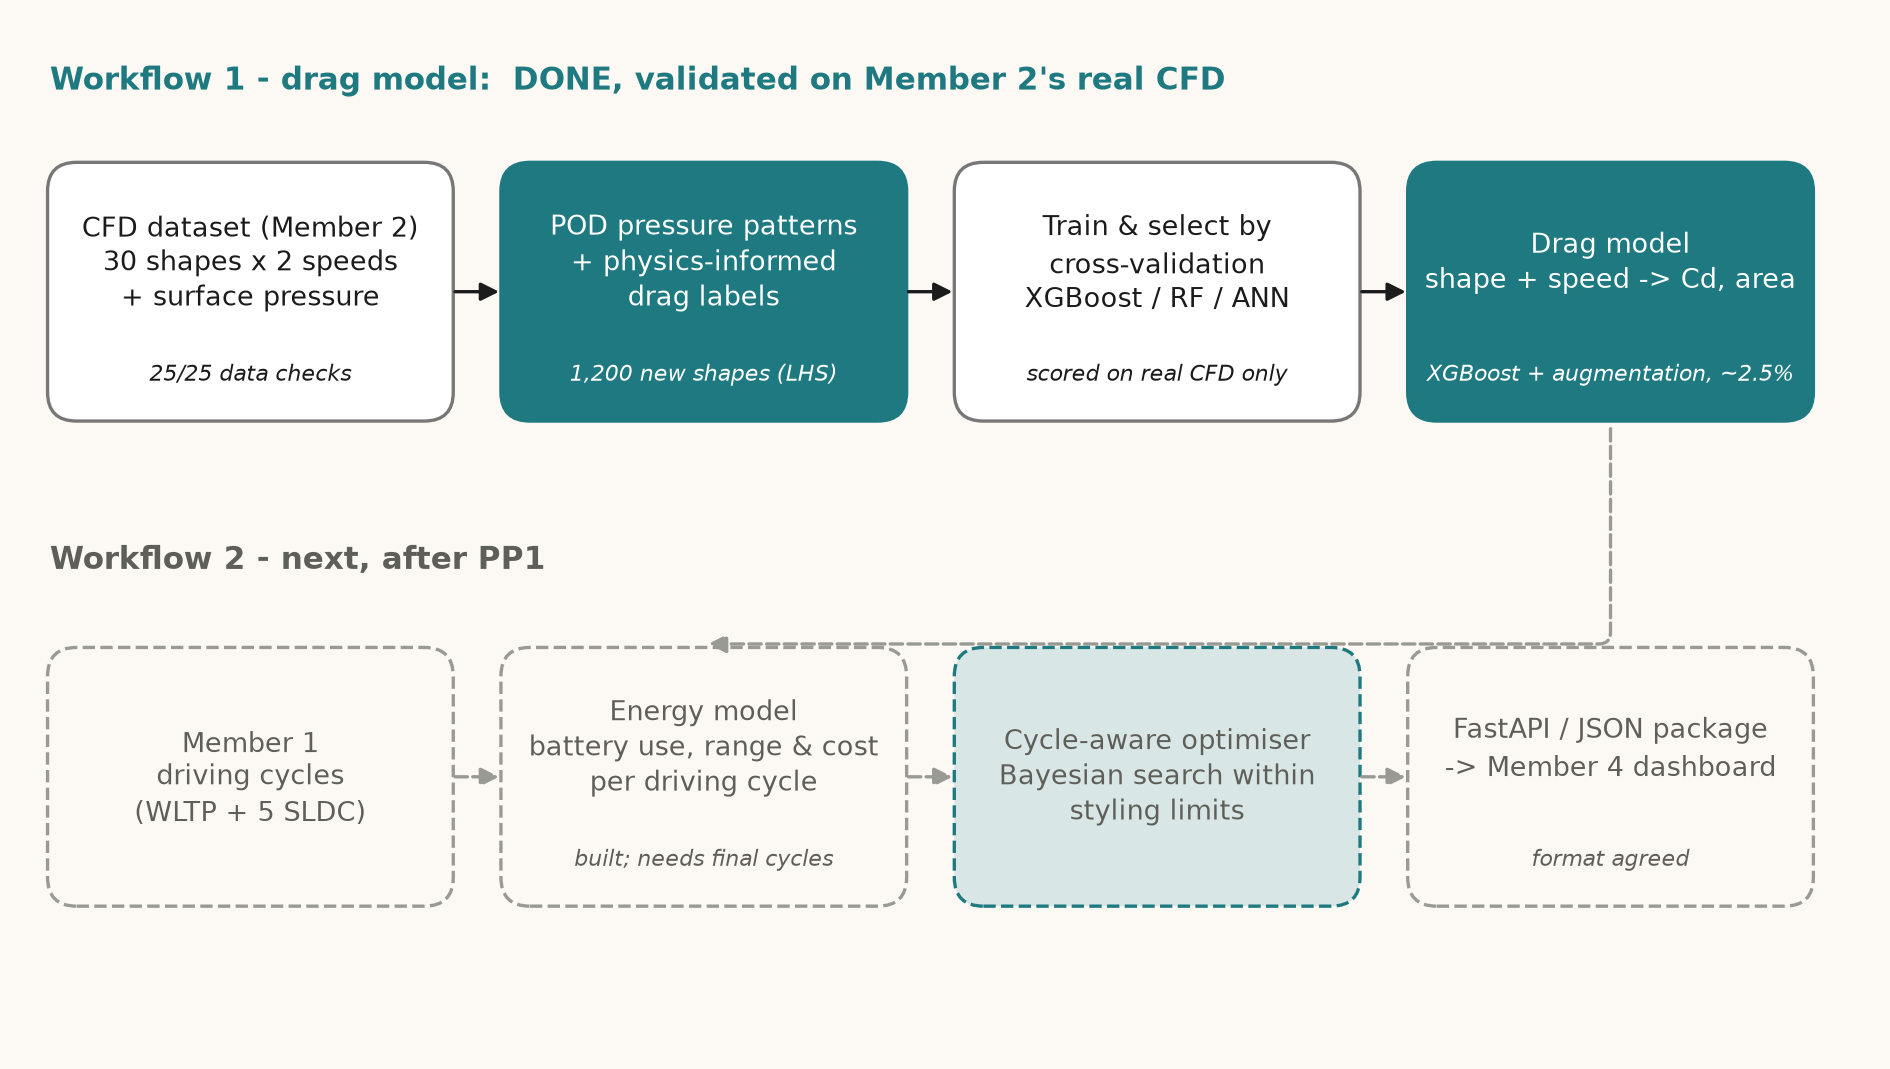
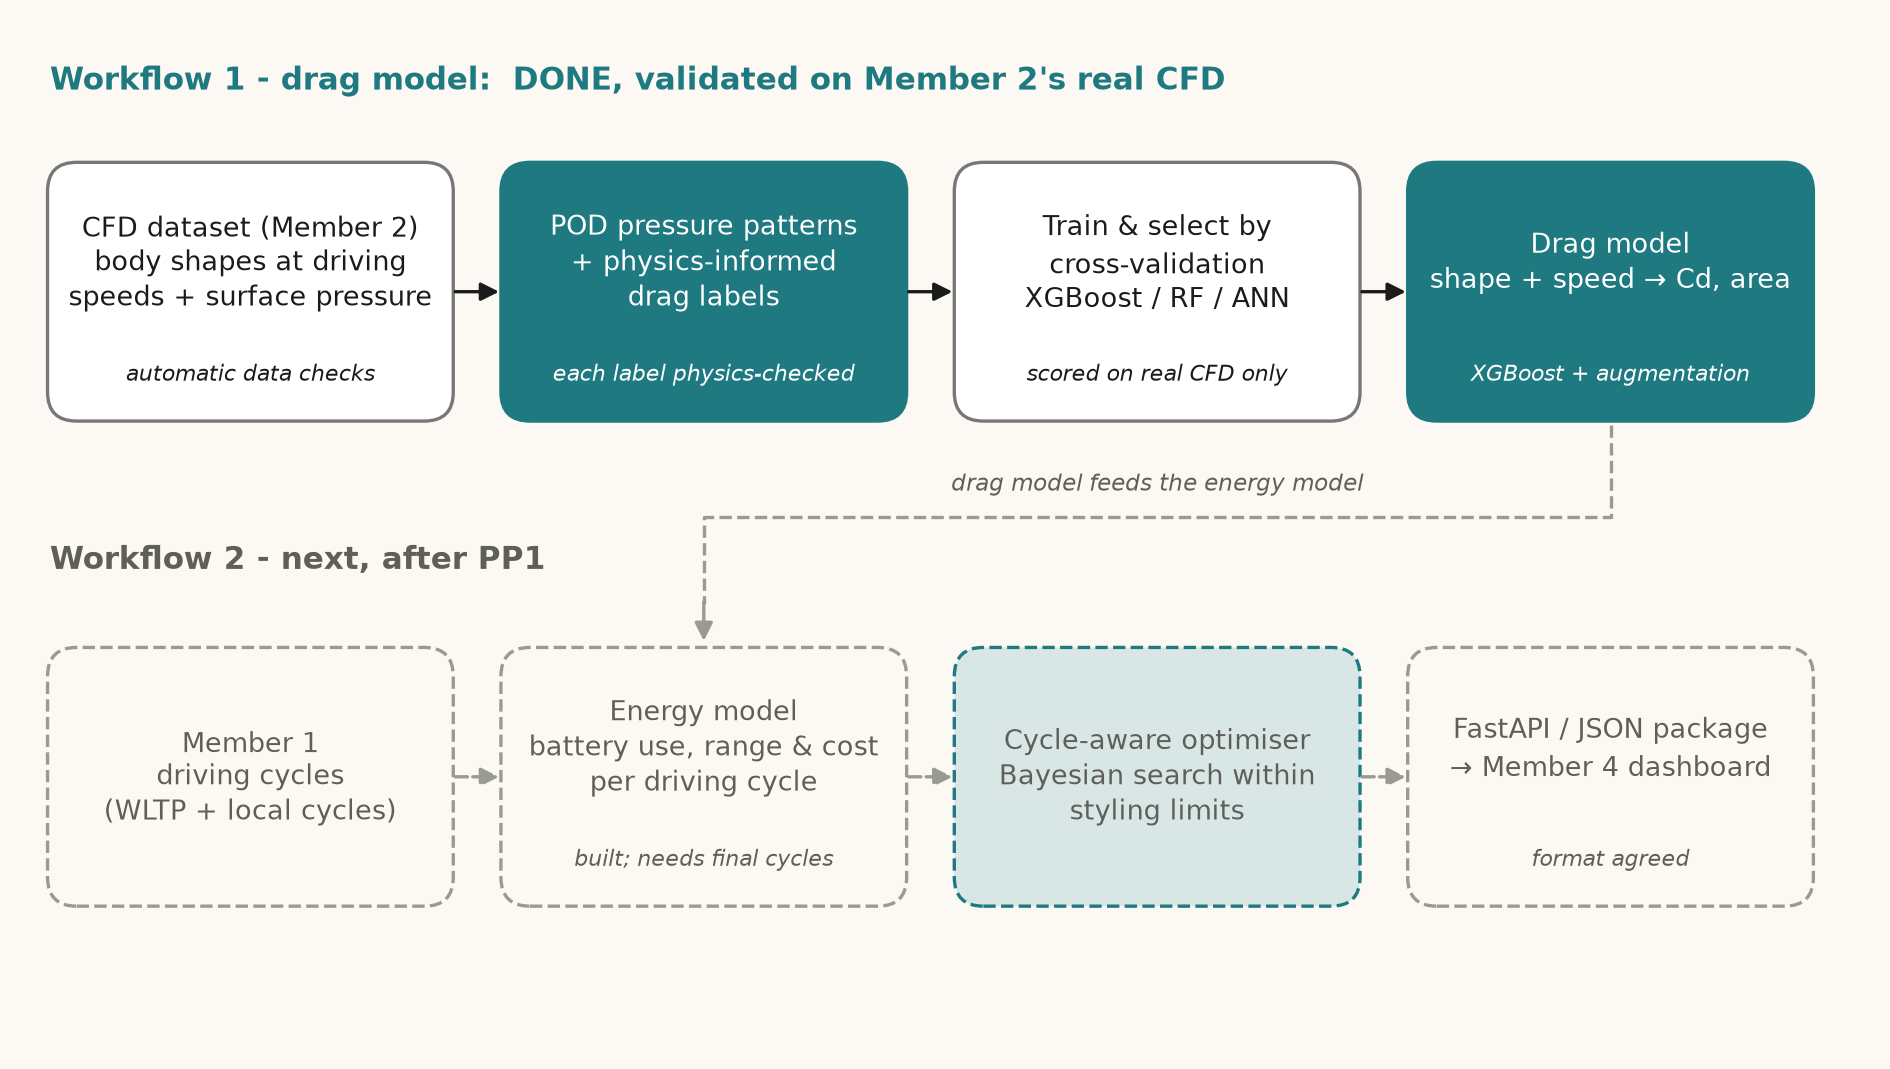
Update PP1 diagrams and enhance drag prediction output with synthetic shape count

diff --git a/component3_ml_backend/scripts/make_pp1_diagrams.py b/component3_ml_backend/scripts/make_pp1_diagrams.py
@@ -48,83 +48,128 @@ def architecture():
 
     ax.text(0.3, 8.35, "Workflow 1 - drag model:  DONE, validated on Member 2's real CFD", fontsize=15, color=TEAL,
             weight="bold")
-    box(0, y1, "CFD dataset (Member 2)\n30 shapes x 2 speeds\n+ surface pressure", False, sub="25/25 data checks")
-    box(1, y1, "POD pressure patterns\n+ physics-informed\ndrag labels", True, sub="1,200 new shapes (LHS)")
+    box(0, y1, "CFD dataset (Member 2)\nbody shapes at driving\nspeeds + surface pressure", False, sub="automatic data checks")
+    box(1, y1, "POD pressure patterns\n+ physics-informed\ndrag labels", True, sub="each label physics-checked")
     box(2, y1, "Train & select by\ncross-validation\nXGBoost / RF / ANN", False, sub="scored on real CFD only")
-    box(3, y1, "Drag model\nshape + speed -> Cd, area", True, sub="XGBoost + augmentation, ~2.5%")
+    box(3, y1, "Drag model\nshape + speed → Cd, area", True, sub="XGBoost + augmentation")
     for i in range(3):
         arrow(i, i + 1, y1 + h / 2)
     ax.text(0.3, 4.2, "Workflow 2 - next, after PP1", fontsize=15, color=GREY, weight="bold")
-    box(0, y2, "Member 1\ndriving cycles\n(WLTP + 5 SLDC)", False, done=False)
+    box(0, y2, "Member 1\ndriving cycles\n(WLTP + local cycles)", False, done=False)
     box(1, y2, "Energy model\nbattery use, range & cost\nper driving cycle", False, done=False, sub="built; needs final cycles")
     box(2, y2, "Cycle-aware optimiser\nBayesian search within\nstyling limits", True, done=False)
-    box(3, y2, "FastAPI / JSON package\n-> Member 4 dashboard", False, done=False, sub="format agreed")
+    box(3, y2, "FastAPI / JSON package\n→ Member 4 dashboard", False, done=False, sub="format agreed")
     for i in range(3):
         arrow(i, i + 1, y2 + h / 2, done=False)
-    ax.annotate("", xy=(xs[1] + w / 2, y2 + h + 0.05), xytext=(xs[3] + w / 2, y1 - 0.05),
-                arrowprops=dict(arrowstyle="-|>", color="#9a9a94", linewidth=1.6, linestyle="--", mutation_scale=18,
-                                connectionstyle="angle,angleA=-90,angleB=180,rad=12"))
+    # drag model feeds the energy model: down, left above the Workflow 2 row, down
+    mid, grey = 4.65, "#9a9a94"
+    ax.plot([xs[3] + w / 2, xs[3] + w / 2, xs[1] + w / 2, xs[1] + w / 2], [y1 - 0.05, mid, mid, y2 + h + 0.4],
+            color=grey, linewidth=1.6, linestyle="--")
+    ax.add_patch(FancyArrowPatch((xs[1] + w / 2, y2 + h + 0.45), (xs[1] + w / 2, y2 + h + 0.04), arrowstyle="-|>",
+                                 mutation_scale=18, linewidth=1.6, color=grey))
+    ax.text((xs[1] + xs[3] + w) / 2, mid + 0.18, "drag model feeds the energy model", ha="center", va="bottom",
+            fontsize=11, color=GREY, style="italic")
     return fig
 
 
 def methodology():
-    fig, ax = plt.subplots(figsize=(17, 9.2))
+    """Two lanes: BUILD (numbered steps, left to right, training shapes only) and
+    VALIDATE (held-out real CFD, never used for training), with only the few
+    arrows that connect them."""
+    fig, ax = plt.subplots(figsize=(17, 9))
     fig.patch.set_facecolor(BG); ax.set_facecolor(BG)
-    ax.set_xlim(0, 16.2); ax.set_ylim(0, 9.2); ax.axis("off")
-    boxes = {}
+    ax.set_xlim(0, 17.1); ax.set_ylim(0, 9); ax.axis("off")
+    LIGHT_TEAL, LIGHT_GREY = "#E3EFEF", "#ECEAE4"
 
-    def box(key, x, y, w, h, text, teal=False, sub=None):
-        boxes[key] = (x, y, w, h)
-        ax.add_patch(FancyBboxPatch((x, y), w, h, boxstyle="round,pad=0.02,rounding_size=0.18", linewidth=1.5,
-                                    facecolor=TEAL if teal else "white", edgecolor=TEAL if teal else "#777"))
-        col = "white" if teal else INK
-        ax.text(x + w / 2, y + h / 2 + (0.2 if sub else 0), text, ha="center", va="center", fontsize=12.5, color=col,
-                weight="bold" if teal else "normal", linespacing=1.25)
-        if sub:
-            ax.text(x + w / 2, y + 0.27, sub, ha="center", va="center", fontsize=10, color=col, style="italic")
+    ax.text(8.55, 8.65, "Workflow 1: how the drag model is built and validated", fontsize=17, color=TEAL,
+            weight="bold", ha="center", va="center")
 
-    def path(pts, label=None, at=None, dashed=False):
-        xs, ys = zip(*pts)
-        ax.plot(xs, ys, color=LINE, linewidth=1.4, linestyle="--" if dashed else "-", zorder=1)
-        ax.annotate("", xy=pts[-1], xytext=pts[-2],
-                    arrowprops=dict(arrowstyle="-|>", color=LINE, lw=1.4, mutation_scale=16))
-        if label:
-            ax.text(at[0], at[1], label, ha="center", va="center", fontsize=10.5, color=GREY,
-                    bbox=dict(facecolor=BG, edgecolor="none", pad=1.5))
+    # lanes
+    ax.add_patch(FancyBboxPatch((0.1, 4.3), 16.9, 3.95, boxstyle="round,pad=0,rounding_size=0.25",
+                                facecolor=LIGHT_TEAL, edgecolor="none"))
+    ax.add_patch(FancyBboxPatch((0.1, 0.15), 16.9, 3.75, boxstyle="round,pad=0,rounding_size=0.25",
+                                facecolor=LIGHT_GREY, edgecolor="none"))
+    ax.text(0.35, 7.95, "BUILD", fontsize=15, color=TEAL, weight="bold", va="center")
+    ax.text(1.45, 7.95, "the drag model; held-out shapes stay hidden until the winner is chosen", fontsize=12, color=TEAL, va="center")
+    ax.text(0.4, 2.75, "VALIDATE", fontsize=15, color=GREY, weight="bold", va="center")
+    ax.text(0.4, 2.05, "against held-out\nreal CFD shapes,\nnever used for\ntraining", fontsize=11.5, color=GREY,
+            va="center", linespacing=1.35)
 
-    y1, y2, y3, h1, h2, h3 = 7.2, 4.4, 1.3, 1.25, 1.35, 1.3
-    box("A", 0.2, y1, 2.7, h1, "Real CFD runs\n(Member 2)", sub="30 shapes x 2 speeds")
-    box("B", 3.3, y1, 2.7, h1, "Data verification", sub="25 automatic checks")
-    box("C", 6.4, y1, 3.0, h1, "Cross-validation split\n(by design, repeated)", sub="hidden at both speeds")
-    box("D", 10.4, y1, 2.6, h1, "POD model\n(pressure patterns)", teal=True)
-    box("E", 13.4, y1, 2.6, h1, "Helper model\n(Gaussian Process)", teal=True, sub="settings chosen by CV")
-    box("K", 0.2, y2, 2.7, h2, "Held-out runs\n(real CFD)", sub="used to score the models")
-    box("I", 3.6, y2, 3.3, h2, "Train & select\nXGBoost / RF / ANN", sub="augmentation kept only if it helps")
-    box("H", 7.8, y2, 2.9, h2, "Augmented dataset\n(real + synthetic)", sub="1,200 shapes per speed")
-    box("F", 12.4, y2, 3.0, h2, "Physics labeller\n(patterns -> Cd)", teal=True)
-    box("J", 3.6, y3, 3.3, h3 + 0.2, "Final drag model\n(shape + speed)", teal=True, sub="+ frontal-area model + model card")
-    box("L", 7.8, y3, 2.9, h3, "Label validation\n(vs held-out real CFD)", sub="+ physics-trend check")
-    box("G", 13.1, y3, 2.6, h3, "Shape generator\n(Latin hypercube)")
+    w, h, y = 2.5, 2.75, 4.65
+    xs = [0.3 + i * 2.8 for i in range(6)]
+    steps = [
+        ("Real CFD data", "Member 2's runs\nbody shapes at\ndriving speeds\n+ surface pressure", "automatic data checks", "white"),
+        ("Split by design", "training shapes /\nheld-out shapes\nrepeated\ncross-validation", "hidden at every speed", "white"),
+        ("Physics labeller", "POD pressure patterns\n+ Gaussian Process\nlabels new\nsampled shapes", None, "teal"),
+        ("Per-label checks", "stagnation limit\npositive pressure drag\nCd in CFD range\nin validated region", "failing labels removed", "check"),
+        ("Train & select", "XGBoost / RF / ANN\ntrained with and\nwithout the\nchecked labels", "augmentation only if it helps", "white"),
+        ("Final drag model", "winner retrained\non all real shapes\nshape + speed → Cd\n+ model card", None, "teal"),
+    ]
+    for i, (x, (title, body, note, style)) in enumerate(zip(xs, steps), start=1):
+        teal = style == "teal"
+        ink = "white" if teal else INK
+        ax.add_patch(FancyBboxPatch((x, y), w, h, boxstyle="round,pad=0.02,rounding_size=0.2",
+                                    linewidth=2.4 if style == "check" else 1.4, facecolor=TEAL if teal else "white",
+                                    edgecolor="#888" if style == "white" else TEAL))
+        cx = x + w / 2
+        ax.add_patch(plt.Circle((cx, y + h), 0.27, facecolor=TEAL, edgecolor="white", linewidth=2.5, zorder=3))
+        ax.text(cx, y + h, str(i), ha="center", va="center", fontsize=13, weight="bold", color="white", zorder=4)
+        ax.text(cx, y + h - 0.55, title, ha="center", va="center", fontsize=13, weight="bold", color=ink)
+        ax.text(cx, y + h / 2 - (0.05 if note else 0.2), body, ha="center", va="center", fontsize=10.5,
+                linespacing=1.35, color=ink)
+        if note:
+            ax.text(cx, y + 0.3, note, ha="center", va="center", fontsize=9, style="italic",
+                    color="white" if teal else TEAL)
+        if i < 6:
+            ax.add_patch(FancyArrowPatch((x + w + 0.03, y + h / 2), (x + 2.8 - 0.03, y + h / 2), arrowstyle="-|>",
+                                         mutation_scale=20, linewidth=2.2, color=INK))
 
-    def mid(k):
-        return boxes[k][1] + boxes[k][3] / 2
+    yv, hv = 0.75, 2.1
 
-    path([(2.9, mid("A")), (3.3, mid("B"))])
-    path([(6.0, mid("B")), (6.4, mid("C"))])
-    path([(9.4, mid("C")), (10.4, mid("D"))], "training\nruns", (9.9, mid("C") + 0.38))
-    path([(13.0, mid("D")), (13.4, mid("E"))])
-    path([(11.7, y1), (11.7, 6.4), (13.3, 6.4), (13.3, y2 + h2)], "pattern amounts", (12.5, 6.62))
-    path([(14.7, y1), (14.7, y2 + h2)])
-    path([(14.4, y3 + h3), (14.4, y2)], "new shapes", (14.4, 3.5))
-    path([(12.4, mid("F")), (10.7, mid("H"))], "physics-based Cd", (11.55, mid("F") + 0.3))
-    path([(9.0, y1), (9.0, y2 + h2)], "real training runs", (9.0, 6.3))
-    path([(6.8, y1), (6.8, 6.45), (1.55, 6.45), (1.55, y2 + h2)], "held-out runs", (4.2, 6.45))
-    path([(7.8, mid("H")), (6.9, mid("I"))])
-    path([(2.9, mid("K")), (3.6, mid("I"))])
-    path([(5.25, y2), (5.25, y3 + h3 + 0.2)], "with vs without augmentation:\nlowest error wins,\nretrain on all designs", (6.75, 3.5))
-    path([(1.55, y2), (1.55, 0.7), (9.25, 0.7), (9.25, y3)], "real Cd", (5.4, 0.7), dashed=True)
-    path([(12.65, y2), (12.65, 1.95), (10.7, 1.95)], "predicted Cd", (11.6, 2.2), dashed=True)
-    ax.text(0.2, 8.85, "Workflow 1: how the drag model is built and validated", fontsize=16, color=TEAL, weight="bold")
+    def vbox(x, wv, title, body):
+        ax.add_patch(FancyBboxPatch((x, yv), wv, hv, boxstyle="round,pad=0.02,rounding_size=0.2", linewidth=1.4,
+                                    facecolor="white", edgecolor="#888", linestyle="--"))
+        ax.text(x + wv / 2, yv + hv - 0.4, title, ha="center", va="center", fontsize=12.5, weight="bold", color=INK)
+        ax.text(x + wv / 2, yv + hv / 2 - 0.25, body, ha="center", va="center", fontsize=10.5, linespacing=1.35,
+                color=INK)
+
+    vbox(xs[1], w, "Held-out shapes", "real CFD Cd\n(the answer key)")
+    vbox(xs[2], xs[3] + w - xs[2], "Label validation",
+         "labeller's Cd vs real Cd\non shapes it never saw\n→ calibrates each label's uncertainty")
+    vbox(xs[4], w, "Model scoring", "every candidate\nvs real Cd\nlowest error wins")
+
+    def link(x, up, label, dashed=True):
+        y0, y1 = (yv + hv + 0.03, y - 0.03) if up else (y - 0.03, yv + hv + 0.03)
+        ax.add_patch(FancyArrowPatch((x, y0), (x, y1), arrowstyle="-|>", mutation_scale=17, linewidth=1.7,
+                                     color=LINE, linestyle="--" if dashed else "-"))
+        ax.text(x + 0.1, (y0 + y1) / 2, label, ha="left", va="center", fontsize=10.5, color=GREY,
+                bbox=dict(boxstyle="round,pad=0.15", facecolor=BG, edgecolor="none"))
+
+    link(xs[1] + w / 2, False, "held-out", dashed=False)
+    link(xs[2] + 0.55, False, "predicted Cd")
+    link(xs[3] + w - 0.85, True, "uncertainty")
+    link(xs[4] + 0.45, False, "predicted Cd")
+    link(xs[4] + w - 0.4, True, "error")
+    ax.add_patch(FancyArrowPatch((xs[1] + w + 0.03, yv + hv / 2), (xs[2] - 0.03, yv + hv / 2), arrowstyle="-|>",
+                                 mutation_scale=17, linewidth=1.7, color=LINE))
+    ax.plot([xs[1] + w / 2, xs[1] + w / 2, xs[4] + w / 2], [yv, 0.42, 0.42], color=LINE, linewidth=1.7)
+    ax.add_patch(FancyArrowPatch((xs[4] + w / 2, 0.42), (xs[4] + w / 2, yv - 0.03), arrowstyle="-|>",
+                                 mutation_scale=17, linewidth=1.7, color=LINE))
+    ax.text((xs[1] + xs[4] + w) / 2, 0.42, "real Cd", ha="center", va="center", fontsize=10.5, color=GREY,
+            bbox=dict(boxstyle="round,pad=0.15", facecolor="#ECEAE4", edgecolor="none"))
+
+    # legend, in the empty corner under step 6
+    lx, ly = xs[5] + 0.1, 2.5
+    ax.text(lx, ly + 0.25, "How to read", fontsize=11.5, weight="bold", color=INK, va="center")
+    ax.add_patch(FancyArrowPatch((lx, ly - 0.25), (lx + 0.7, ly - 0.25), arrowstyle="-|>", mutation_scale=15,
+                                 linewidth=2.0, color=INK))
+    ax.text(lx + 0.85, ly - 0.25, "main build flow", fontsize=10, color=INK, va="center")
+    ax.add_patch(FancyArrowPatch((lx, ly - 0.75), (lx + 0.7, ly - 0.75), arrowstyle="-|>", mutation_scale=15,
+                                 linewidth=1.7, color=LINE, linestyle="--"))
+    ax.text(lx + 0.85, ly - 0.75, "checked against\nreal CFD", fontsize=10, color=INK, va="center")
+    ax.add_patch(FancyBboxPatch((lx, ly - 1.45), 0.7, 0.3, boxstyle="round,pad=0.01,rounding_size=0.06",
+                                facecolor=TEAL, edgecolor=TEAL))
+    ax.text(lx + 0.85, ly - 1.3, "core method", fontsize=10, color=INK, va="center")
     return fig
 
 

diff --git a/component3_ml_backend/scripts/predict_shape.py b/component3_ml_backend/scripts/predict_shape.py
@@ -43,7 +43,10 @@ def main():
     area = joblib.load(os.path.join(MODEL_DIR, card["frontal_area_model_file"]))
     t_load = time.perf_counter() - t0
 
-    print(f"=== Drag prediction with {card['drag_model']} (trained on {sum(card['n_designs'].values())} real CFD runs) ===")
+    n_real = sum(card["n_designs"].values())
+    n_synth = sum(card.get("synthetic_kept_per_speed", {}).values()) if card.get("uses_augmentation") else 0
+    extra = f" + {n_synth:,} checked physics-labelled synthetic shapes" if n_synth else ""
+    print(f"=== Drag prediction with {card['drag_model']} (trained on {n_real} real CFD runs{extra}) ===")
     print("Shape:")
     for n in names:
         lo, hi = card["design_box"][n]
